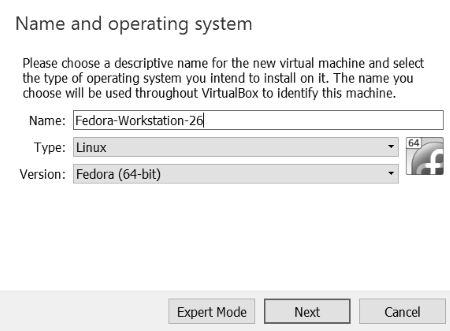
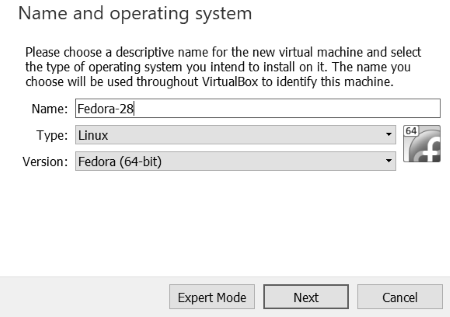
updated images to current editions

Changed region(s): [[0.0311, 0.142, 0.9956, 0.5678], [0.3733, 0.8801, 0.9956, 0.9937], [0.0311, 0.0284, 0.56, 0.1136]]

diff --git a/Chapter-03/chapter-03.md b/Chapter-03/chapter-03.md
@@ -96,7 +96,7 @@ You also need to be aware of the type of architecture you are installing to.  Is
 
 The 32-bit distro is most commonly referred to as the x86 or 586, 686 architecture.  The 64-bit architecture is usually referred to as x64, but sometimes *x86_64*, and even *AMD_64*, that is not a reference to AMD processors - just a credit in the name as AMD was the first company to implement 64-bit extensions to the 32-bit x86 instruction set--hence the credit.  There is one other type of architecture called ARM or AARCH, AARCH64.  This is the ARM architecture that runs phones, tablets, and small embedded systems such as the Raspberry Pi.  It has an entirely different instruction set so the software compiled for this architecture is not compatible with the Intel x86-x64 architecture.  
 
-Each distro also has a checksum feature provided by the site that issues the download.  A checksum is a one way mathematical function that gives you a unique representation of what the content of the ISO should be.  That way if you download and ISO from somewhere and the checksum is different then you might be alerted to someone trying to add additional contents to an ISO or perhaps just a corrupted download.  Most distros use a simple md5 hash, but a few, notably Fedora, has moved to more robust hashes using the SHA-256 hash.
+Each distro also has a checksum feature provided by the site that issues the download.  A checksum is a one way mathematical function that gives you a unique representation of what the content of the ISO should be.  That way if you download and ISO from somewhere and the checksum is different then you might be alerted to someone trying to add additional contents to an ISO or perhaps just a corrupted download.  Most distros  more robust hashes such as the SHA-256 hash, but for legacy purposes you still see md5 hashes.
 
 #### Links to get you started
 
@@ -110,52 +110,33 @@ Each distro also has a checksum feature provided by the site that issues the dow
 Here are the commands to execute in Windows in Powershell:
 
 ```powershell
-Get-FileHash .\ubuntu-17.04-desktop-amd64.iso -Algorithm MD5 | format-list
+Get-FileHash .\ubuntu-18.04-desktop-amd64.iso -Algorithm MD5 | format-list
 ```
 
-Output:
-
-```
-Algorithm : MD5
-Hash      : 18CC54AF55D7CA931BBB8588E8D9C1BD
-Path      : D:\\isos\\ubuntu-17.04-desktop-amd64.iso
-```
+Output: ```129292A182136A35E1F89C586DBAC2E2```
 
 ```powershell
-Get-FileHash .\Fedora-Server-netinst-x86_64-26-1.5.iso -Algorithm SHA256 | format-list
+Get-FileHash .\ubuntu-18.04-desktop-amd64.iso -Algorithm SHA256 | format-list
 ```
[1 lines of base64/hex data omitted]
 
-Output:
-
-```
-Algorithm : SHA256
-Hash      : E260921EF5C7BD5EE2A7B2F2F1156AF6483014C73984E4CF37F2B6690E0155E5
-Path      : D:\\isos\\Fedora-Server-netinst-x86_64-26-1.5.iso
-```
+---
 
 Here are the checksum commands and output to be executed if you are running on an already installed version of Linux or Mac OSX from the terminal:
 
 ```bash
-md5sum ./ubuntu-17.04-desktop-amd64.iso
+md5sum ./Fedora-Workstation-Live-x86_64-28-1.1.iso
 ```
 
-Output:
-
-```
-18CC54AF55D7CA931BBB8588E8D9C1BD ./ubuntu-17.04-desktop-amd64.iso
-```
+Output: ```18CC54AF55D7CA931BBB8588E8D9C1BD```
 
 ```bash
-sha256sum ./Fedora-Server-netinst-x86_64-26-1.5.iso
+sha256sum ./Fedora-Workstation-Live-x86_64-28-1.1.iso
 ```
 
-Output:
[1 lines of base64/hex data omitted]
 
-```
-E260921EF5C7BD5EE2A7B2F2F1156AF6483014C73984E4CF37F2B6690E0155E5 ./Fedora-Server-netinst-x86_64-26-1.5.iso  
-```
-
[2 lines of base64/hex data omitted]
 
 ### Planning Your Install
 
